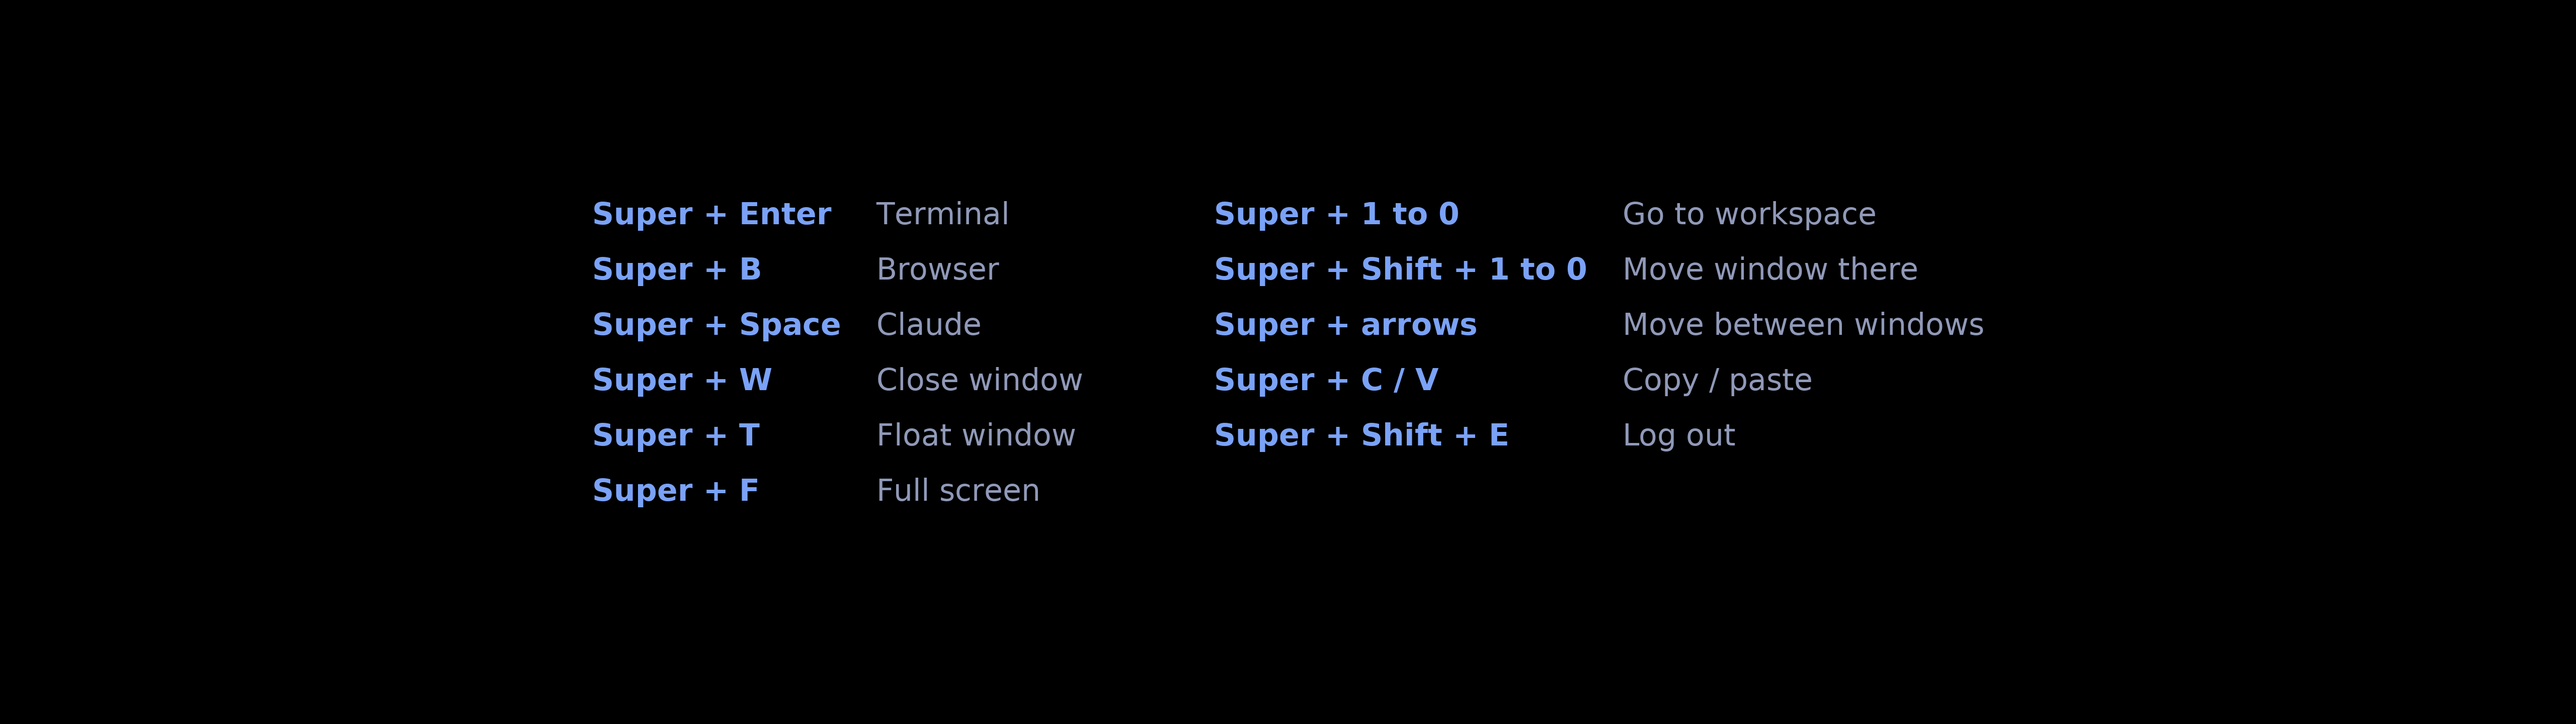
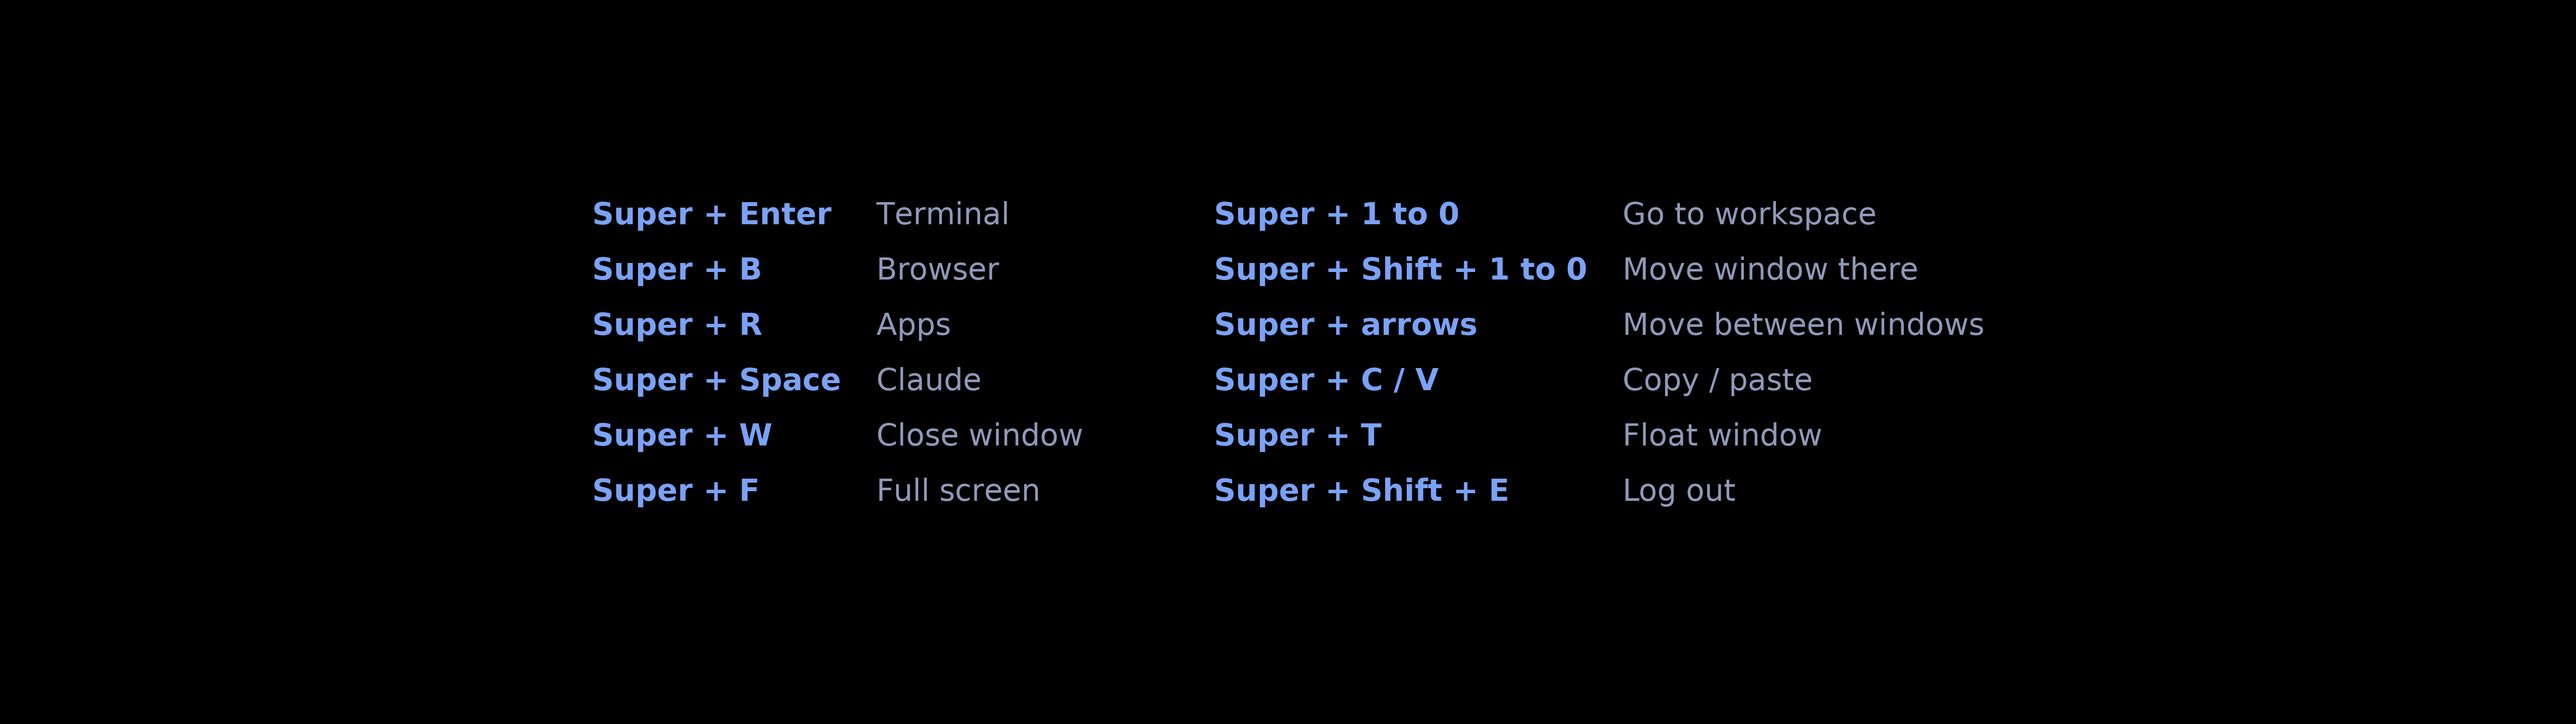
Top-bar-app-launcher-and-screen-off
Waybar, wofi and swayidle from Gentoo, with Kiln's settings. The screen turns off
after 10 minutes idle, and the desktop shortcuts list the launcher.

diff --git a/config/waybar/style.css b/config/waybar/style.css
@@ -1,0 +1,54 @@
+/* Kiln Linux: the top bar, in the Tokyo Night colours used by hyprland.lua. */
+* {
+    font-family: "DejaVu Sans", sans-serif;
+    font-size: 18px;
+    border: none;
+    border-radius: 0;
+    min-height: 0;
+}
+
+window#waybar {
+    background: #000000;
+    color: #a9b1d6;
+}
+
+#workspaces button {
+    padding: 0 12px;
+    color: #9099b8;
+    background: transparent;
+}
+
+#workspaces button.active {
+    color: #7aa2f7;
+    box-shadow: inset 0 -2px #7aa2f7;
+}
+
+#workspaces button:hover {
+    background: #1a1b26;
+}
+
+#custom-apps,
+#custom-claude,
+#clock,
+#cpu,
+#memory,
+#network,
+#pulseaudio {
+    padding: 0 14px;
+}
+
+#custom-apps,
+#custom-claude {
+    color: #7aa2f7;
+    font-weight: bold;
+}
+
+#custom-apps:hover,
+#custom-claude:hover {
+    background: #1a1b26;
+}
+
+#pulseaudio.muted,
+#network.disconnected {
+    color: #f7768e;
+}

diff --git a/config/wofi/style.css b/config/wofi/style.css
@@ -1,0 +1,30 @@
+/* Kiln Linux: the app launcher, in the same colours as the bar. */
+* {
+    font-family: "DejaVu Sans", sans-serif;
+    font-size: 24px;
+}
+
+window {
+    background-color: #000000;
+    border: 2px solid #7aa2f7;
+}
+
+#input {
+    margin: 10px;
+    padding: 8px;
+    color: #c0caf5;
+    background-color: #1a1b26;
+    border: none;
+    border-radius: 0;
+}
+
+#entry {
+    padding: 8px 14px;
+    color: #a9b1d6;
+}
+
+#entry:selected {
+    color: #000000;
+    background-color: #7aa2f7;
+    outline: none;
+}

diff --git a/config/desktop/make-shortcuts.py b/config/desktop/make-shortcuts.py
@@ -14,14 +14,15 @@ WIDTH, HEIGHT = 5120, 1440
 COLUMNS = (
     (("Super + Enter", "Terminal"),
      ("Super + B", "Browser"),
+     ("Super + R", "Apps"),
      ("Super + Space", "Claude"),
      ("Super + W", "Close window"),
-     ("Super + T", "Float window"),
      ("Super + F", "Full screen")),
     (("Super + 1 to 0", "Go to workspace"),
      ("Super + Shift + 1 to 0", "Move window there"),
      ("Super + arrows", "Move between windows"),
      ("Super + C / V", "Copy / paste"),
+     ("Super + T", "Float window"),
      ("Super + Shift + E", "Log out")),
 )
 KEY_COLOUR = "#7aa2f7"

diff --git a/HANDOVER.md b/HANDOVER.md
@@ -17,7 +17,7 @@ The coordination log between the owner, Cowork and Claude Code. Newest entry at 
 
 Part 4 of step 10 is postponed by the owner, who wanted the Omarchy look first. It includes the first boot of a past snapshot, which also proves part 3. `undo` takes back the newest change, so do not run it without checking what it names first.
 
-Next: the owner tries the Omarchy-based desktop, then decides how to add a status bar, launcher, notifications, lock screen and wallpaper.
+Next: the owner chooses. Still missing from the desktop: notifications, a lock screen and screenshots.
 
 Step 10, in four parts, reporting back after each:
 
@@ -43,6 +43,14 @@ After any restart of the live system, the guard is gone. Clone the repo and run 
 Baseline still open: 4 more Ubuntu boots. The owner runs `scripts/measure.sh boot` whenever he next boots Ubuntu, over time. This does not hold up Kiln.
 
 ## Log
+
+### 3 Nov 2026 — Claude Code, bar, launcher and screen-off
+
+- Owner's decisions: separate small programs rather than Omarchy's shell, and the screen turns off after 10 minutes idle.
+- Installed from Gentoo: `gui-apps/waybar` with the `network` flag, `gui-apps/wofi` and `gui-apps/swayidle`. Fuzzel and Omarchy's launcher have no Gentoo recipe. Settings: config/waybar/, config/wofi/, and kiln-apps and kiln-idle in config/usr/local/bin/.
+- Super+R opens the launcher, and Super+Shift+Space hides the bar. Both are new. The shortcuts image now lists Super+R.
+- Seen running: the bar sits at the top, 36 pixels tall, and windows moved below it. The idle timer is running.
+- The owner tried the bar and launcher, and reports all works. The bar, swaybg and the idle timer start at login, which is proved at the next restart.
 
 ### 3 Nov 2026 — Claude Code, gaps, layout and desktop shortcuts
 

diff --git a/lessons/desktop.md b/lessons/desktop.md
@@ -14,4 +14,5 @@ Hyprland, graphics and the screen.
 - Omarchy 4.0 writes its Hyprland settings in Lua, in `default/hypr/`, so they run on Hyprland 0.57 here. Most of its bindings call `omarchy-*` scripts or its Quickshell shell, so those cannot be copied alone. `send_shortcut` can leave a key stuck, so Omarchy sends `send_key_state` down, then up 50 ms later.
 - Custom window layout: write it with `hl.layout.register("kiln", { recalculate = ... })`, and set `general.layout = "lua:kiln"`. The `lua:` prefix is needed. Without it Hyprland falls back to dwindle with no error, and `getoption` still shows the name. Test by opening windows on an empty workspace, as `hl.dsp.exec_cmd("foot", { workspace = "9 silent" })`, and reading `hyprctl -j clients`.
 - The shortcuts on the desktop are one image, shown by `swaybg`. After changing a key, edit and run `config/desktop/make-shortcuts.py`, then copy the image to `~/.local/share/kiln/`.
+- Turning the screen off in Hyprland 0.57: `hyprctl dispatch 'hl.dsp.dpms({ action = "disable" })'`, and `"enable"` to turn it on. `kiln-idle` uses this with `swayidle`.
 - `AQ_DRM_DEVICES` is split by colons, so it cannot take a by-path card name, which has colons in it. `kiln-session` resolves the name to `/dev/dri/cardN` first.
